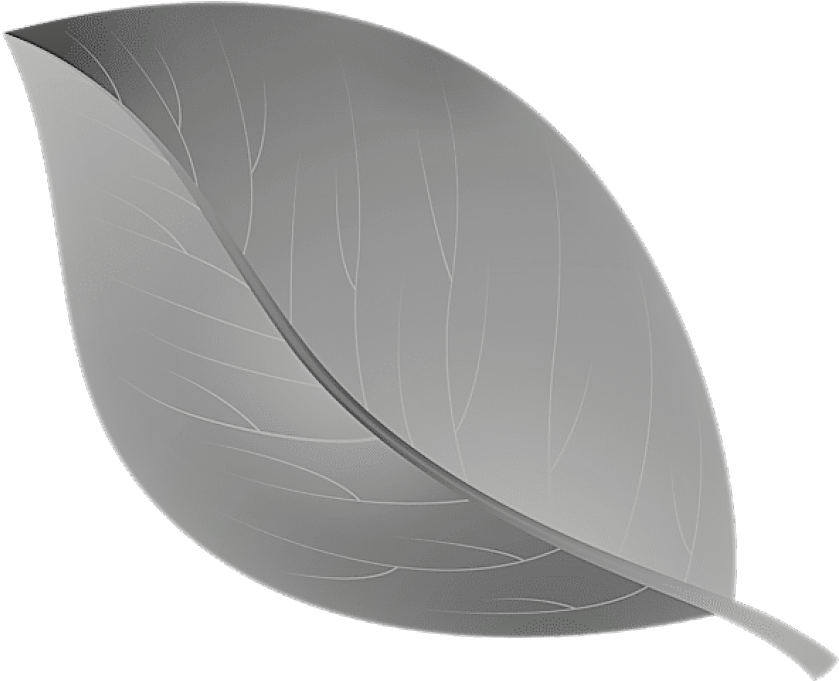
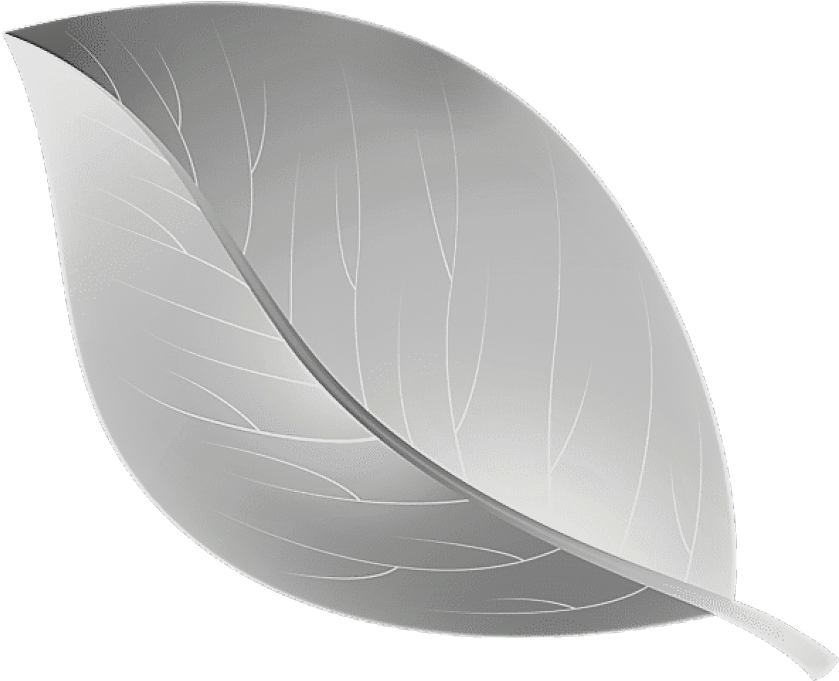
change color of progress bar and silver leaf

diff --git a/src/components/ProgressBar/ProgressBarWrapper.js b/src/components/ProgressBar/ProgressBarWrapper.js
@@ -7,7 +7,7 @@ export const ProgressBarWrapper = (props) => {
             alignItems: 'center',
             width: '100%',
             height: '80px',
-            backgroundColor: 'grey',
+            backgroundColor: 'lightgrey',
         }}>
             {props.children}
         </div>
